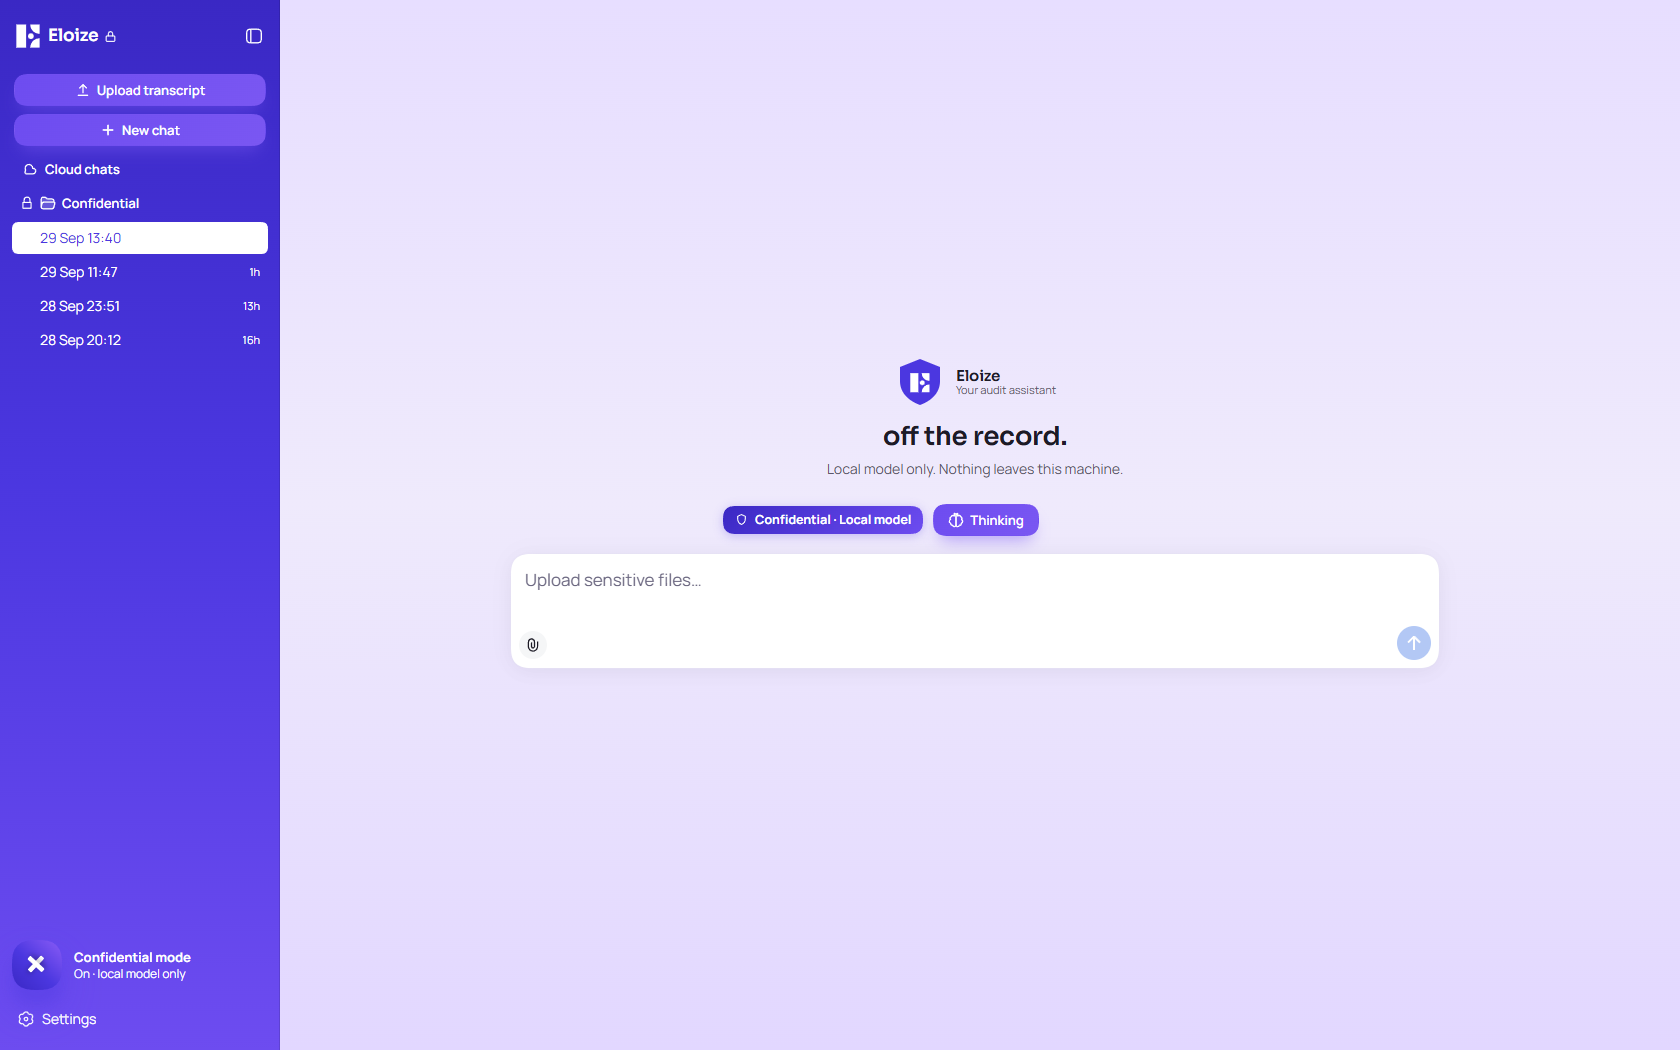
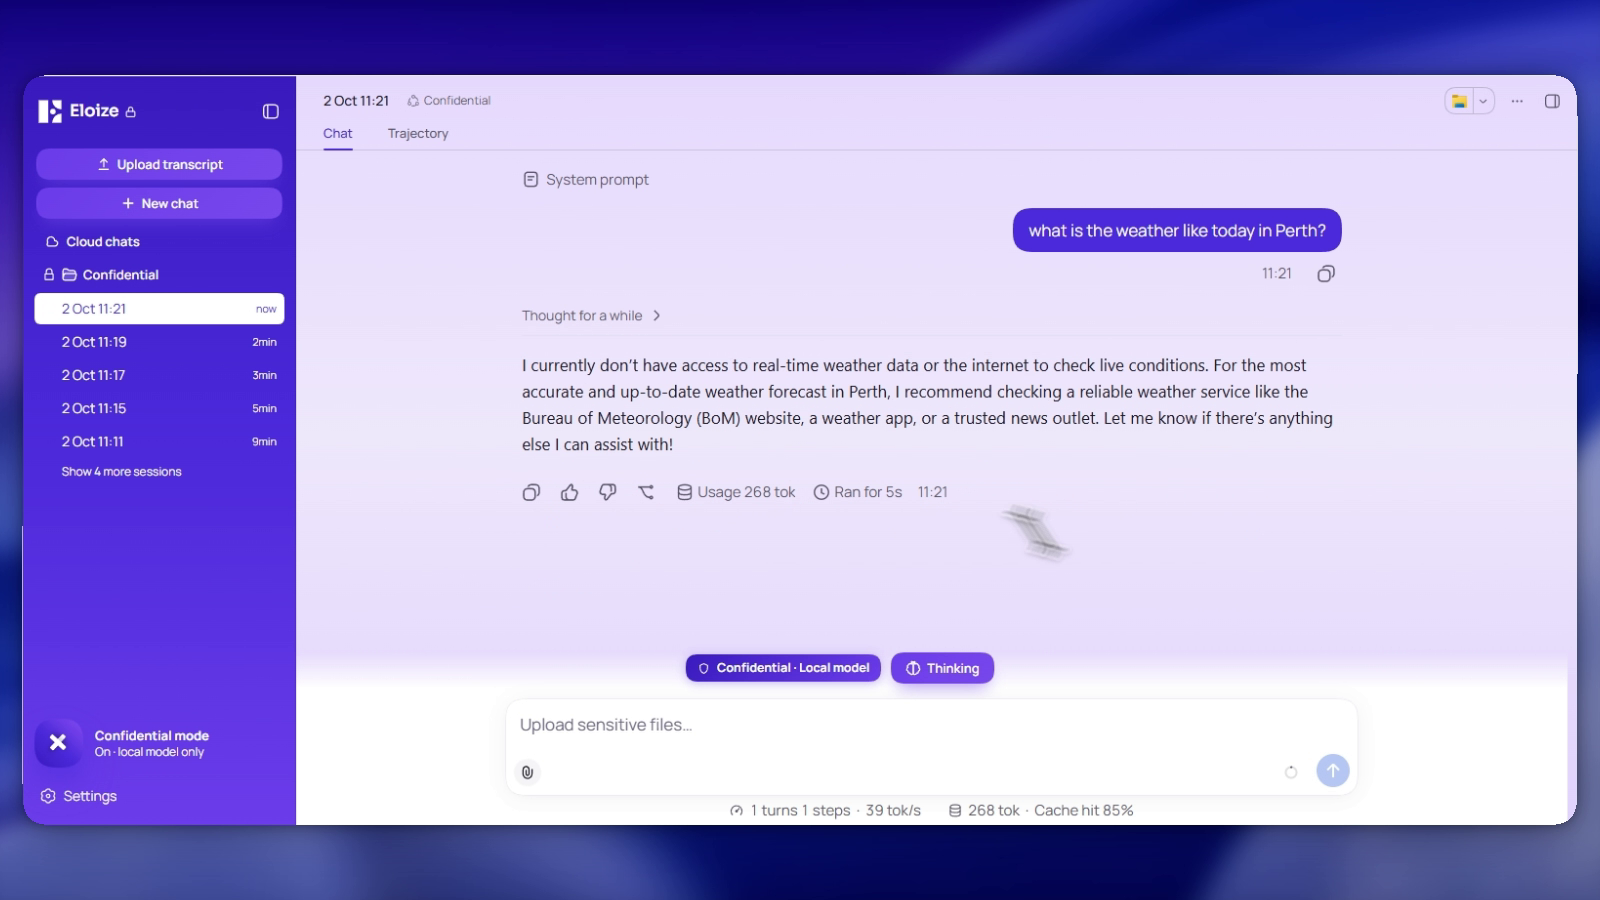
Add demo GIFs and fresh screenshots from the walkthrough recordings

diff --git a/README.md b/README.md
@@ -57,6 +57,10 @@ Three layers, and you own all of them:
 2. **The runtime:** [Ollama](https://ollama.com) loads the model onto the GPU and serves it on `localhost`, so it behaves like any AI API, except the "server" is your own PC.
 3. **The harness:** [DeepSeek Harness (DSH)](https://www.deepseek.com/en/harness/) is the agent layer: chat UI, sessions, tools, and a plugin system. It's pointed at Ollama, so the local model shows up in the model picker next to the cloud ones.
 
+![Stock DeepSeek Harness answering a prompt](docs/images/dsh-demo.gif)
+
+*Stock DeepSeek Harness: one prompt, three tool calls, a written answer.*
+
 ---
 
 ## The rig
@@ -105,7 +109,9 @@ I built a branded, workflow-specific version of DSH during my internship at Eloi
 
 ## Confidential mode: local-only chat
 
-![Confidential mode](docs/images/confidential-mode.png)
+![Confidential mode: switching to local-only and asking for live weather](docs/images/confidential-mode.gif)
+
+*Switching on confidential mode and asking for today's weather. With no tools and no internet access, the local model says it can't check, instead of making something up.*
 
 Flip the switch and the assistant becomes **local model only**:
 - Every model request from a confidential session is **rewritten at the harness level** to Ollama/Qwen3. It's the last word on routing, so no other setting or plugin can send it to the cloud. If the check itself errors, the request fails rather than slipping through.
@@ -119,7 +125,9 @@ Flip the switch and the assistant becomes **local model only**:
 
 ## Transcript scrubber: strips client data from files on the local model
 
-![Transcript scrubbed on the local model](docs/images/transcript-scrubber.png)
+![Uploading a transcript and getting the cleaned copy back](docs/images/scrubber-demo.gif)
+
+*Upload a transcript, the local model cleans it, and the redacted copy opens beside the chat.*
 
 Drop in a meeting transcript and the **local** model strips every identity out of it before anything else happens. Only the cleaned copy is saved and used. You get frontier cloud models working on your client's problems without ever handing them your client's data.
 

diff --git a/docs/client-data-stripper.md b/docs/client-data-stripper.md
@@ -8,11 +8,15 @@ It was built for client audit transcripts, but transcripts are just the demo. Th
 
 Source: [`plugins/dsh-transcript`](../plugins/dsh-transcript/lib/client.js)
 
-![Transcript scrubbed on the local model](images/transcript-scrubber.png)
+![Transcript cleaned and saved to the audit folder](images/scrubber-result.png)
+
+*A real run: the cleaned transcript opens on the right, with names replaced by `[NAME]`, and a notes summary is built from it on the left.*
 
 ---
 
 ## Before and after
+
+![Synthetic transcript scrubbed on the local model](images/transcript-scrubber.png)
 
 A synthetic transcript; every name, number and business in it is made up. [Input](../examples/synthetic-transcript.txt) → [output](../examples/synthetic-transcript-clean.md).
 

diff --git a/docs/setup-guide.md b/docs/setup-guide.md
@@ -63,6 +63,8 @@ ollama launch dsh
 
 It prints a local URL and opens the UI in your browser. Your local models are in the model picker. [`configs/dsh/settings.example.yaml`](../configs/dsh/settings.example.yaml) shows the config this generates: DSH talks to Ollama's OpenAI-compatible endpoint at `http://127.0.0.1:11434/v1`, so every request stays on your machine.
 
+![Stock DeepSeek Harness](images/dsh-stock.png)
+
 ## 4. Run a second, custom instance (optional)
 
 DSH **profiles** let you run a separate instance with its own plugins on its own port, sharing the same install:
